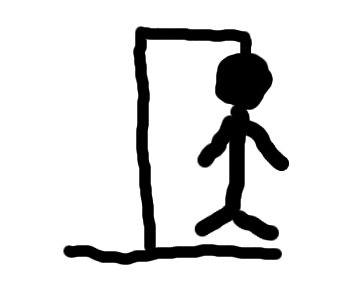
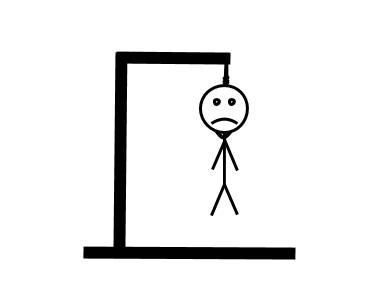
Nuevas imagenes

Changed region(s): [[0.1714, 0.09, 0.8286, 0.9]]

diff --git a/funciones.py b/funciones.py
@@ -142,12 +142,17 @@ def mostrarPalabraCompleta(var):
     mensaje = "La palabra era: "
     if var:
         mensaje = "La palabra es: "
-    surface.blit(font.render(mensaje+palabra_completa,True,(0,0,0)),(200,100))
+    surface.blit(font.render(mensaje+palabra_completa,True,(0,0,0)),(150,50))
 
 def fin(ganador):
 
     perdedor_msg = font_grande.render("HAS PERDIDO!", True, (0, 0, 0))
     ganador_msg = font_grande.render("HAS GANADO!", True, (0, 0, 0))
+
+    if ganador:
+        image = pygame.image.load(os.path.join('data', "ganador.jpg"))
+    else:
+        image = pygame.image.load(os.path.join('data', "perdedor.jpg"))
 
     while True:
         limpiarPantalla()
@@ -159,9 +164,11 @@ def fin(ganador):
         mostrarPalabraCompleta(ganador)
         
         if ganador:
-            surface.blit(ganador_msg, (150, 200))
+            surface.blit(ganador_msg, (150, 100))
         else:
-            surface.blit(perdedor_msg, (150, 200))
+            surface.blit(perdedor_msg, (150, 100))
+        
+        surface.blit(image, (150, 200))
 
         pygame.display.update()
 
